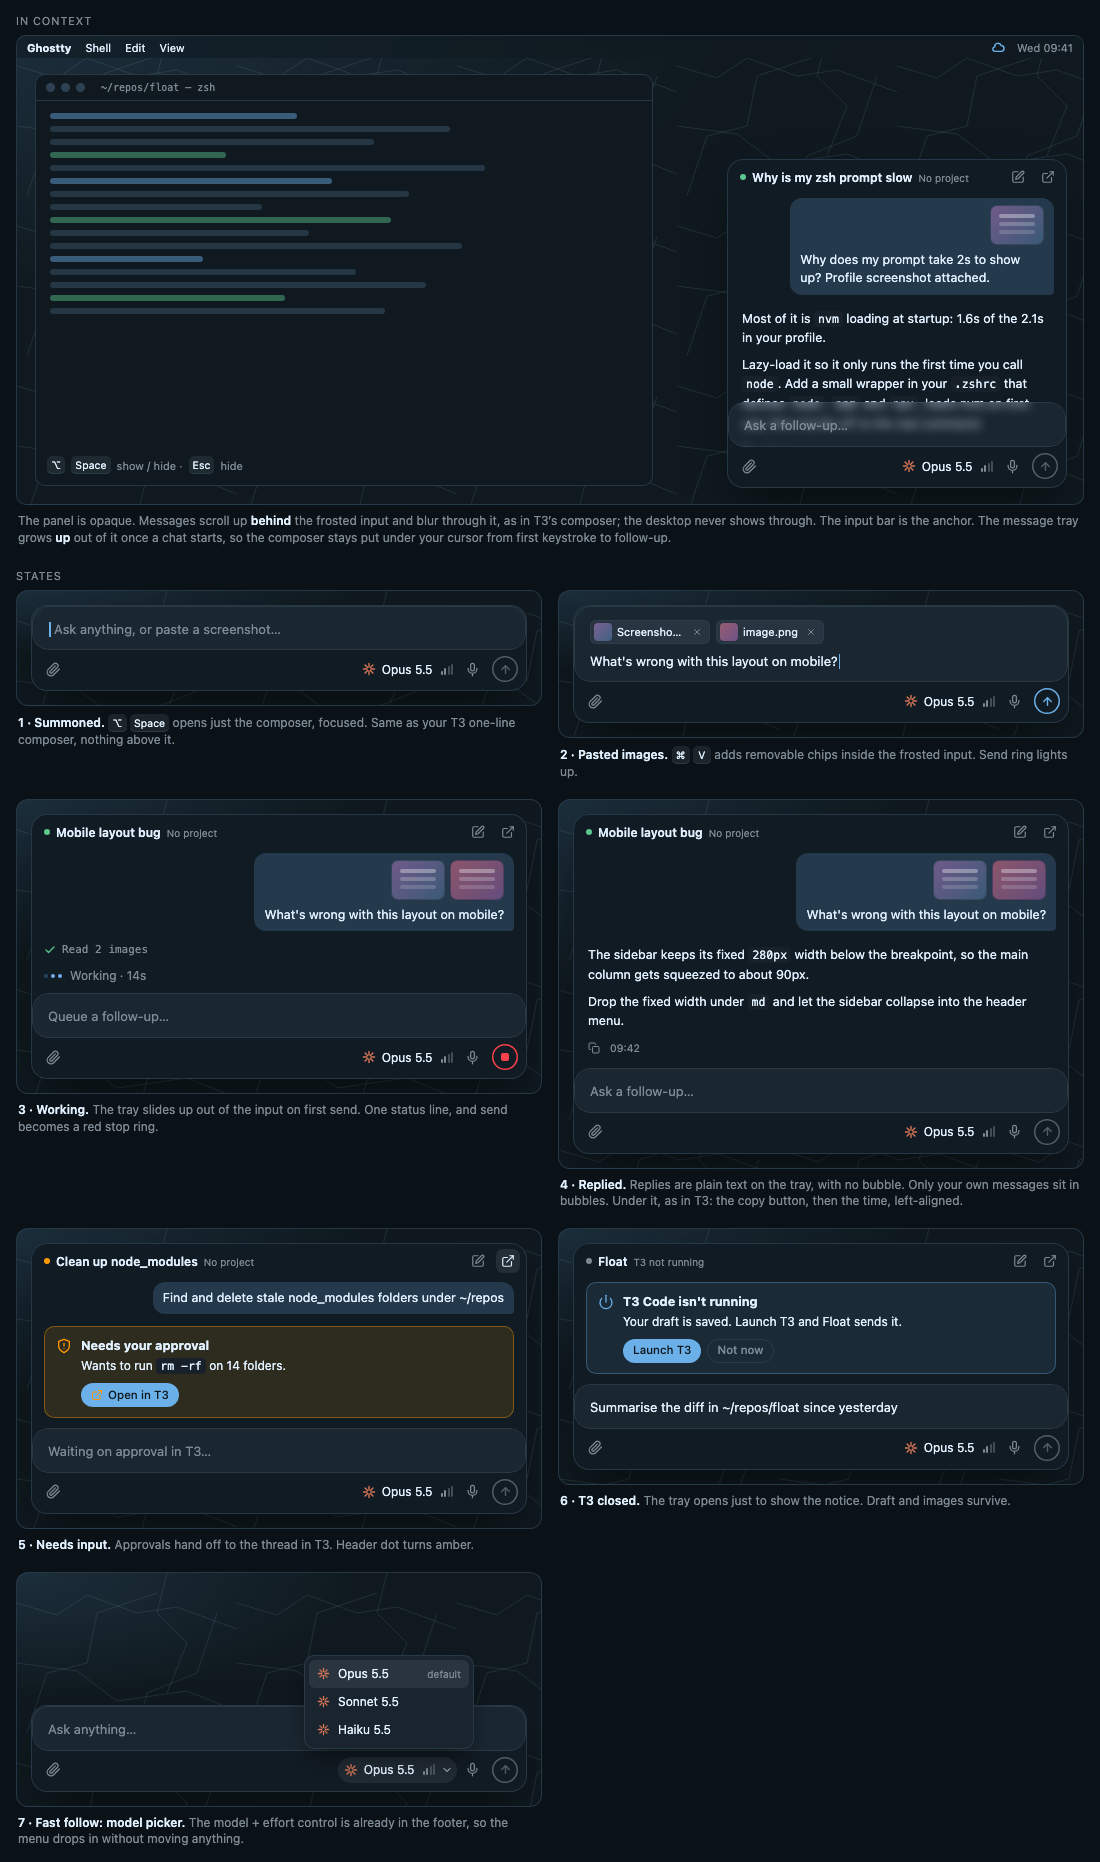
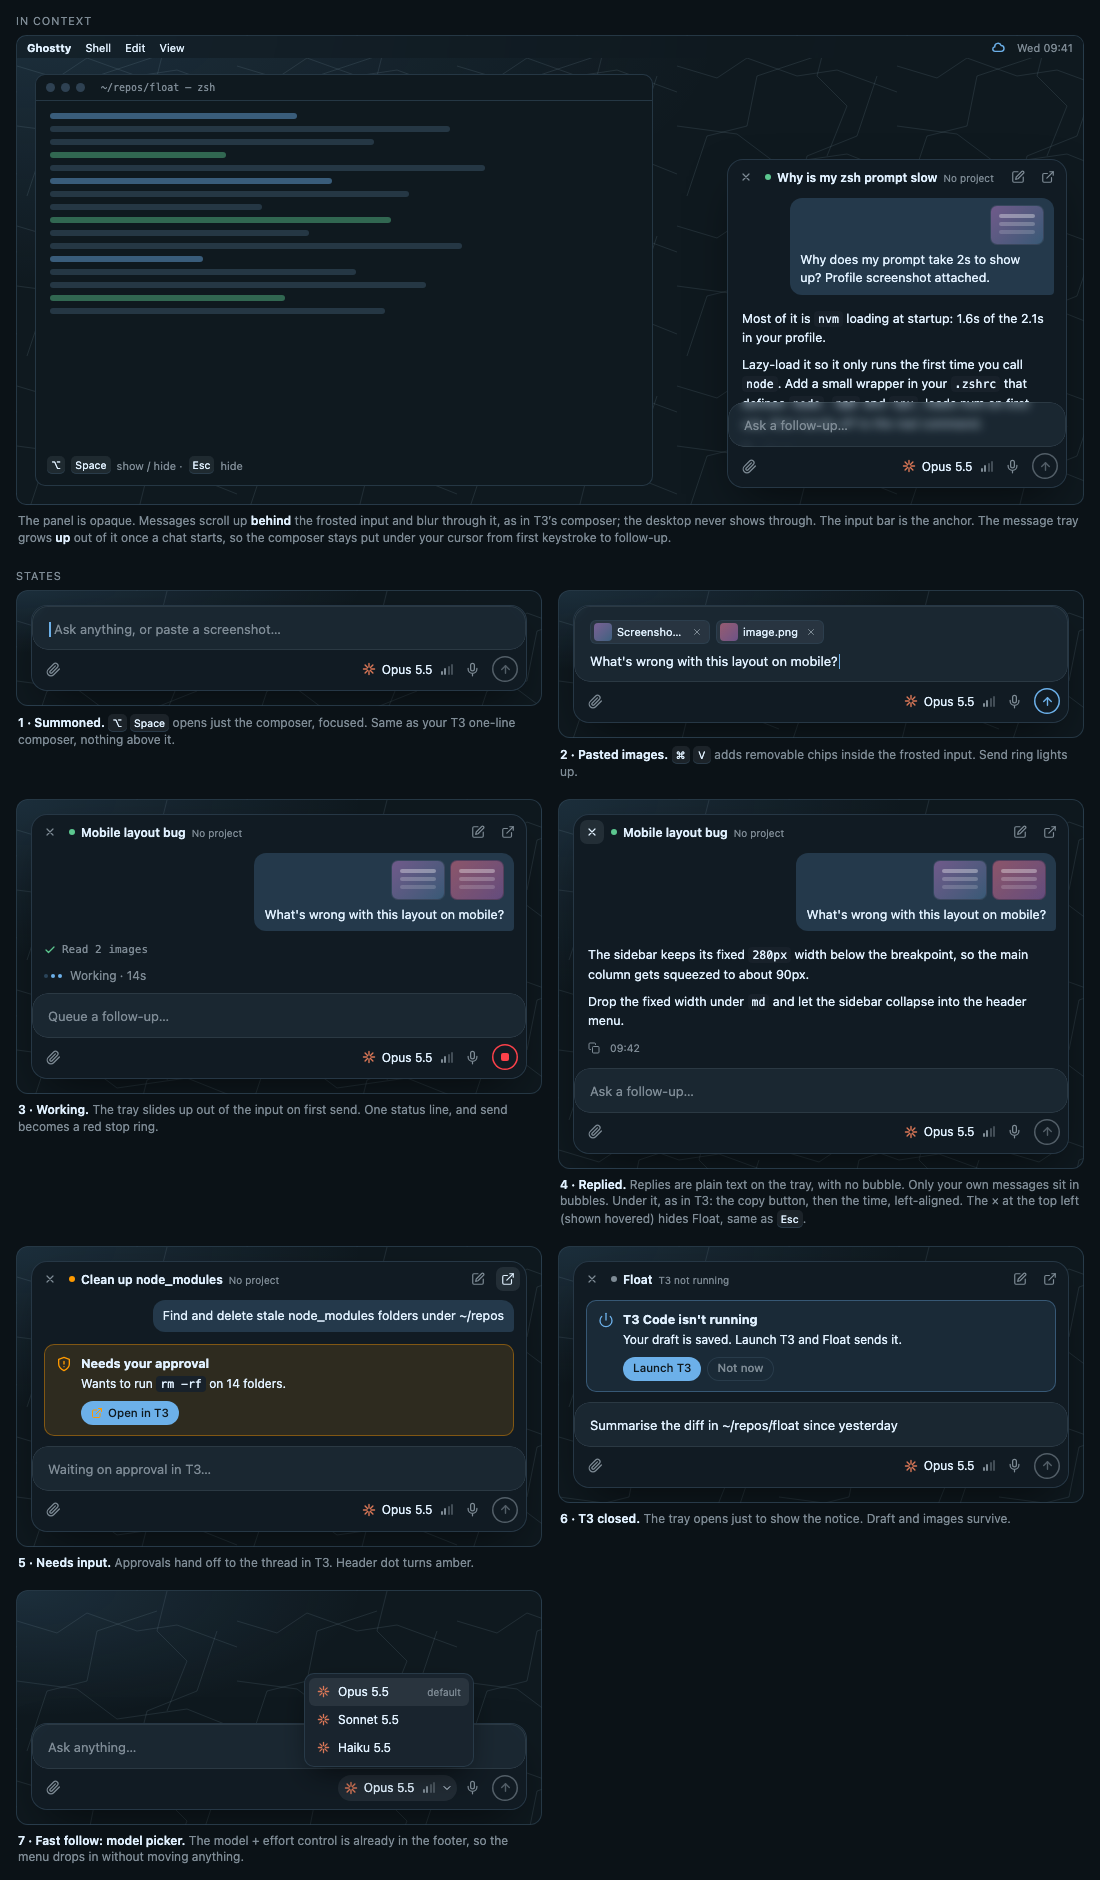
docs(design): add a close button to the header

diff --git a/design/float-mockups.html b/design/float-mockups.html
@@ -67,7 +67,10 @@ body{margin:0;font-family:var(--font-sans);color:var(--foreground)}
        linear-gradient(#000,#000) bottom / 100% calc(100% - var(--r)) no-repeat}
 
 /* top tray contents */
-.hdr{display:flex;align-items:center;gap:6px;height:34px;padding:0 6px 0 12px}
+.hdr{display:flex;align-items:center;gap:6px;height:34px;padding:0 6px}
+/* Close: top-left, mirrors the right-hand buttons. Hides the panel, same as Esc. */
+.hdr .close svg{width:12px;height:12px}
+.hdr .close+.dot{margin-left:1px}
 .dot{width:6px;height:6px;border-radius:50%;background:var(--success);flex:none}
 .ttl{font-size:12px;font-weight:600;white-space:nowrap;overflow:hidden;text-overflow:ellipsis;min-width:0;flex:1}
 .ttl small{font-weight:400;color:var(--muted-foreground);margin-left:6px}
@@ -216,8 +219,8 @@ function footer({send='off', modelOpen=false}={}){
     <span class="ctl model ${modelOpen?'open':''}"><svg class="claude"><use href="#i-burst"/></svg>Opus 5.5<span class="bars"><i class="on" style="height:4px"></i><i class="on" style="height:7px"></i><i style="height:9px"></i><i style="height:11px"></i></span>${modelOpen?`<svg style="width:12px;height:12px"><use href="#i-chev"/></svg>`:''}</span>
     <span class="ctl">${ic('mic')}</span>${s}</div></div>`;
 }
-function trayTop({title, sub='No project', dot='var(--success)', openHover=false, body}){
-  return `<div class="tray-top"><div class="hdr"><span class="dot" style="background:${dot}"></span>
+function trayTop({title, sub='No project', dot='var(--success)', openHover=false, closeHover=false, body}){
+  return `<div class="tray-top"><div class="hdr"><span class="ib close ${closeHover?'hv':''}" title="Close (Esc)">${ic('x')}</span><span class="dot" style="background:${dot}"></span>
     <div class="ttl">${title}<small>${sub}</small></div>
     <span class="ib" title="New chat">${ic('new')}</span><span class="ib ${openHover?'hv':''}" title="Open in T3">${ic('open')}</span></div>
     <div class="msgs under">${body}</div></div>`;
@@ -245,10 +248,10 @@ const states = [
   [shell({tray: trayTop({title:'Mobile layout bug', body:`<div class="msg-u"><div class="thumbs">${thumb()}${thumb(60)}</div>What's wrong with this layout on mobile?</div><div class="step">${ic('check')}Read 2 images</div><div class="working"><span class="pulse"><i></i><i></i><i></i></span>Working · 14s</div>`}),
      input: ph('Queue a follow-up…'), send:'stop'}),
    `<b>3 · Working.</b> The tray slides up out of the input on first send. One status line, and send becomes a red stop ring.`],
-  [shell({tray: trayTop({title:'Mobile layout bug', body:`<div class="msg-u"><div class="thumbs">${thumb()}${thumb(60)}</div>What's wrong with this layout on mobile?</div>` +
+  [shell({tray: trayTop({title:'Mobile layout bug', closeHover:true, body:`<div class="msg-u"><div class="thumbs">${thumb()}${thumb(60)}</div>What's wrong with this layout on mobile?</div>` +
      reply(['The sidebar keeps its fixed <code>280px</code> width below the breakpoint, so the main column gets squeezed to about 90px.','Drop the fixed width under <code>md</code> and let the sidebar collapse into the header menu.'],'09:42')}),
      input: ph('Ask a follow-up…')}),
-   `<b>4 · Replied.</b> Replies are plain text on the tray, with no bubble. Only your own messages sit in bubbles. Under it, as in T3: the copy button, then the time, left-aligned.`],
+   `<b>4 · Replied.</b> Replies are plain text on the tray, with no bubble. Only your own messages sit in bubbles. Under it, as in T3: the copy button, then the time, left-aligned. The × at the top left (shown hovered) hides Float, same as <span class="kbd">Esc</span>.`],
   [shell({tray: trayTop({title:'Clean up node_modules', dot:'var(--warning)', openHover:true, body:`<div class="msg-u">Find and delete stale node_modules folders under ~/repos</div><div class="notice warn">${ic('shield')}<div><b>Needs your approval</b>Wants to run <code>rm -rf</code> on 14 folders.<div><span class="btn pri">${ic('open')}Open in T3</span></div></div></div>`}),
      input: ph('Waiting on approval in T3…')}),
    `<b>5 · Needs input.</b> Approvals hand off to the thread in T3. Header dot turns amber.`],

diff --git a/design/README.md b/design/README.md
@@ -31,5 +31,5 @@ The colours come from Dylan's nordbones T3 theme. So do the pixel thinking loade
 - **Corner radius:** 16 for the shell, 12 for your message bubbles, 10 for cards and menus, 6 for chips.
 - **Thinking loader:** the 3×3 pixel grid, 4 frames, stepping every 300 ms. It's the only progress indicator.
 - **Replies:** show only assistant text. Never show tool calls. Replies have no bubble: plain text on the tray, as in T3. Under each reply sits a muted row with the copy button first, then the time, left-aligned. Only your own messages sit in bubbles.
-- **Header:** status dot, title, project and machine subtitle, then New chat and Open in T3. You can drag the window by the header as well as the footer.
+- **Header:** a close button (×) at the top left, then the status dot, title, and project and machine subtitle, then New chat and Open in T3 on the right. The × hides the panel, the same as Esc; the draft and chat stay. The compact state has no header, so Esc hides it there. Quit Float lives in the menu bar cloud's right-click menu. You can drag the window by the header as well as the footer.
 - **Footer:** paperclip on the left; provider icon, model and send/stop on the right.
